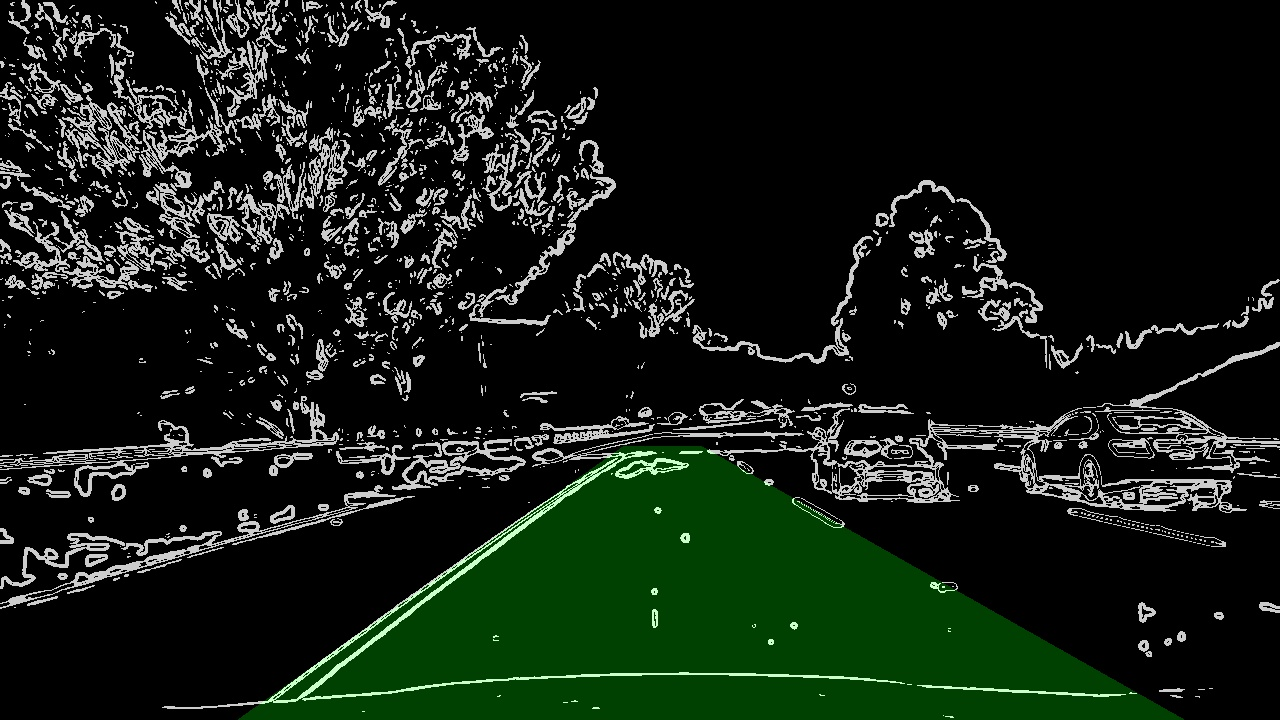
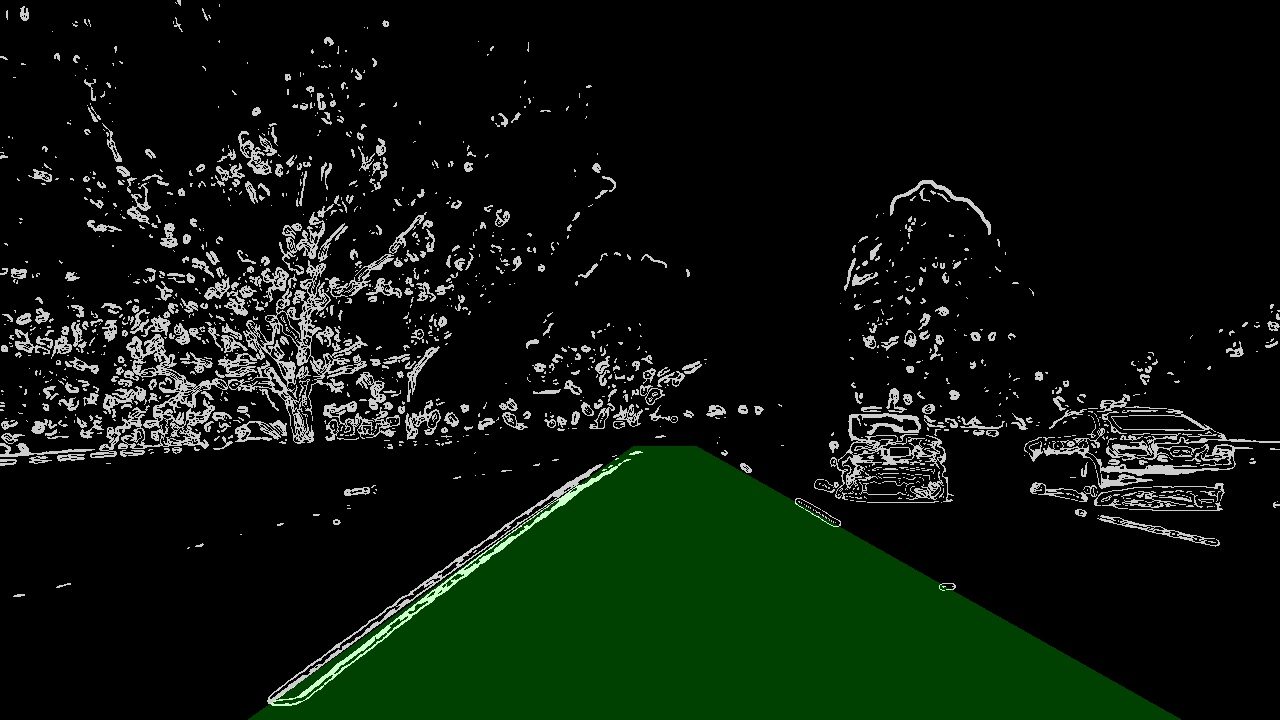
Acceptable lines.

diff --git a/find_lanes.py b/find_lanes.py
@@ -263,7 +263,7 @@ def draw_lines_on_image(image, img_dir, img_suffix, img_format, is_rgb_lines=Fal
     theta = np.pi/180 # angular resolution in radians of the Hough grid
     threshold = 20     # minimum number of votes (intersections in Hough grid cell)
     min_line_length = 50 #minimum number of pixels making up a line
-    max_line_gap = 250    # maximum gap in pixels between connectable line segments
+    max_line_gap = 350    # maximum gap in pixels between connectable line segments
     line_image = np.copy(image)*0 # creating a blank to draw lines on
 
     # Run Hough on edge detected image
@@ -508,6 +508,8 @@ def draw_lines_on_images(img_dir, img_prefix, img_format):
         r_channel_img = img[:,:,0]
         g_channel_img = img[:,:,1]
         hls_img = cv2.cvtColor(img, cv2.COLOR_RGB2HLS)
+        h_channel_img = hls_img[:,:,0]
+        l_channel_img = hls_img[:,:,1]
         s_channel_img = hls_img[:,:,2]
         # s_channel_img = img[:,:,2]
         s_thresh = (40, 200)
@@ -517,6 +519,21 @@ def draw_lines_on_images(img_dir, img_prefix, img_format):
         write_name = img_dir + '/s_thresh_' + img_suffix
         print("New image: %s" %write_name)
         cv2.imwrite(write_name, binary_s)
+
+
+        write_name = img_dir + '/h_channel_img' + img_suffix
+        print("New image: %s" %write_name)
+        cv2.imwrite(write_name, h_channel_img)
+
+        write_name = img_dir + '/l_channel_img' + img_suffix
+        print("New image: %s" %write_name)
+        cv2.imwrite(write_name, l_channel_img)
+
+        write_name = img_dir + '/s_channel_img' + img_suffix
+        print("New image: %s" %write_name)
+        cv2.imwrite(write_name, s_channel_img)
+
+
 
         binary_r = np.zeros_like(s_channel_img)
         binary_r[(r_channel_img > r_thresh[0]) & (r_channel_img <= r_thresh[1])] = 255
@@ -533,7 +550,8 @@ def draw_lines_on_images(img_dir, img_prefix, img_format):
 
         #mag_thresh_s = mag_threshold(cv2.cvtColor(img, cv2.COLOR_RGB2GRAY), sobel_kernel=9, mag_thresh=(40,100), single_channel=True) * 255
         #mag_thresh_s = mag_threshold(hls_img, sobel_kernel=9, mag_thresh=(40,100) , single_channel=True) * 255
-        mag_thresh_s = mag_threshold(hls_img, sobel_kernel=9, mag_thresh=(40,100)) * 255
+        color_edges = np.dstack((s_channel_img, s_channel_img, s_channel_img)) 
+        mag_thresh_s = mag_threshold(color_edges, sobel_kernel=9, mag_thresh=(40,100)) * 255
         write_name = img_dir + '/mag_thresh_' + img_suffix
         print("New image: %s" %write_name)
         cv2.imwrite(write_name, mag_thresh_s)
